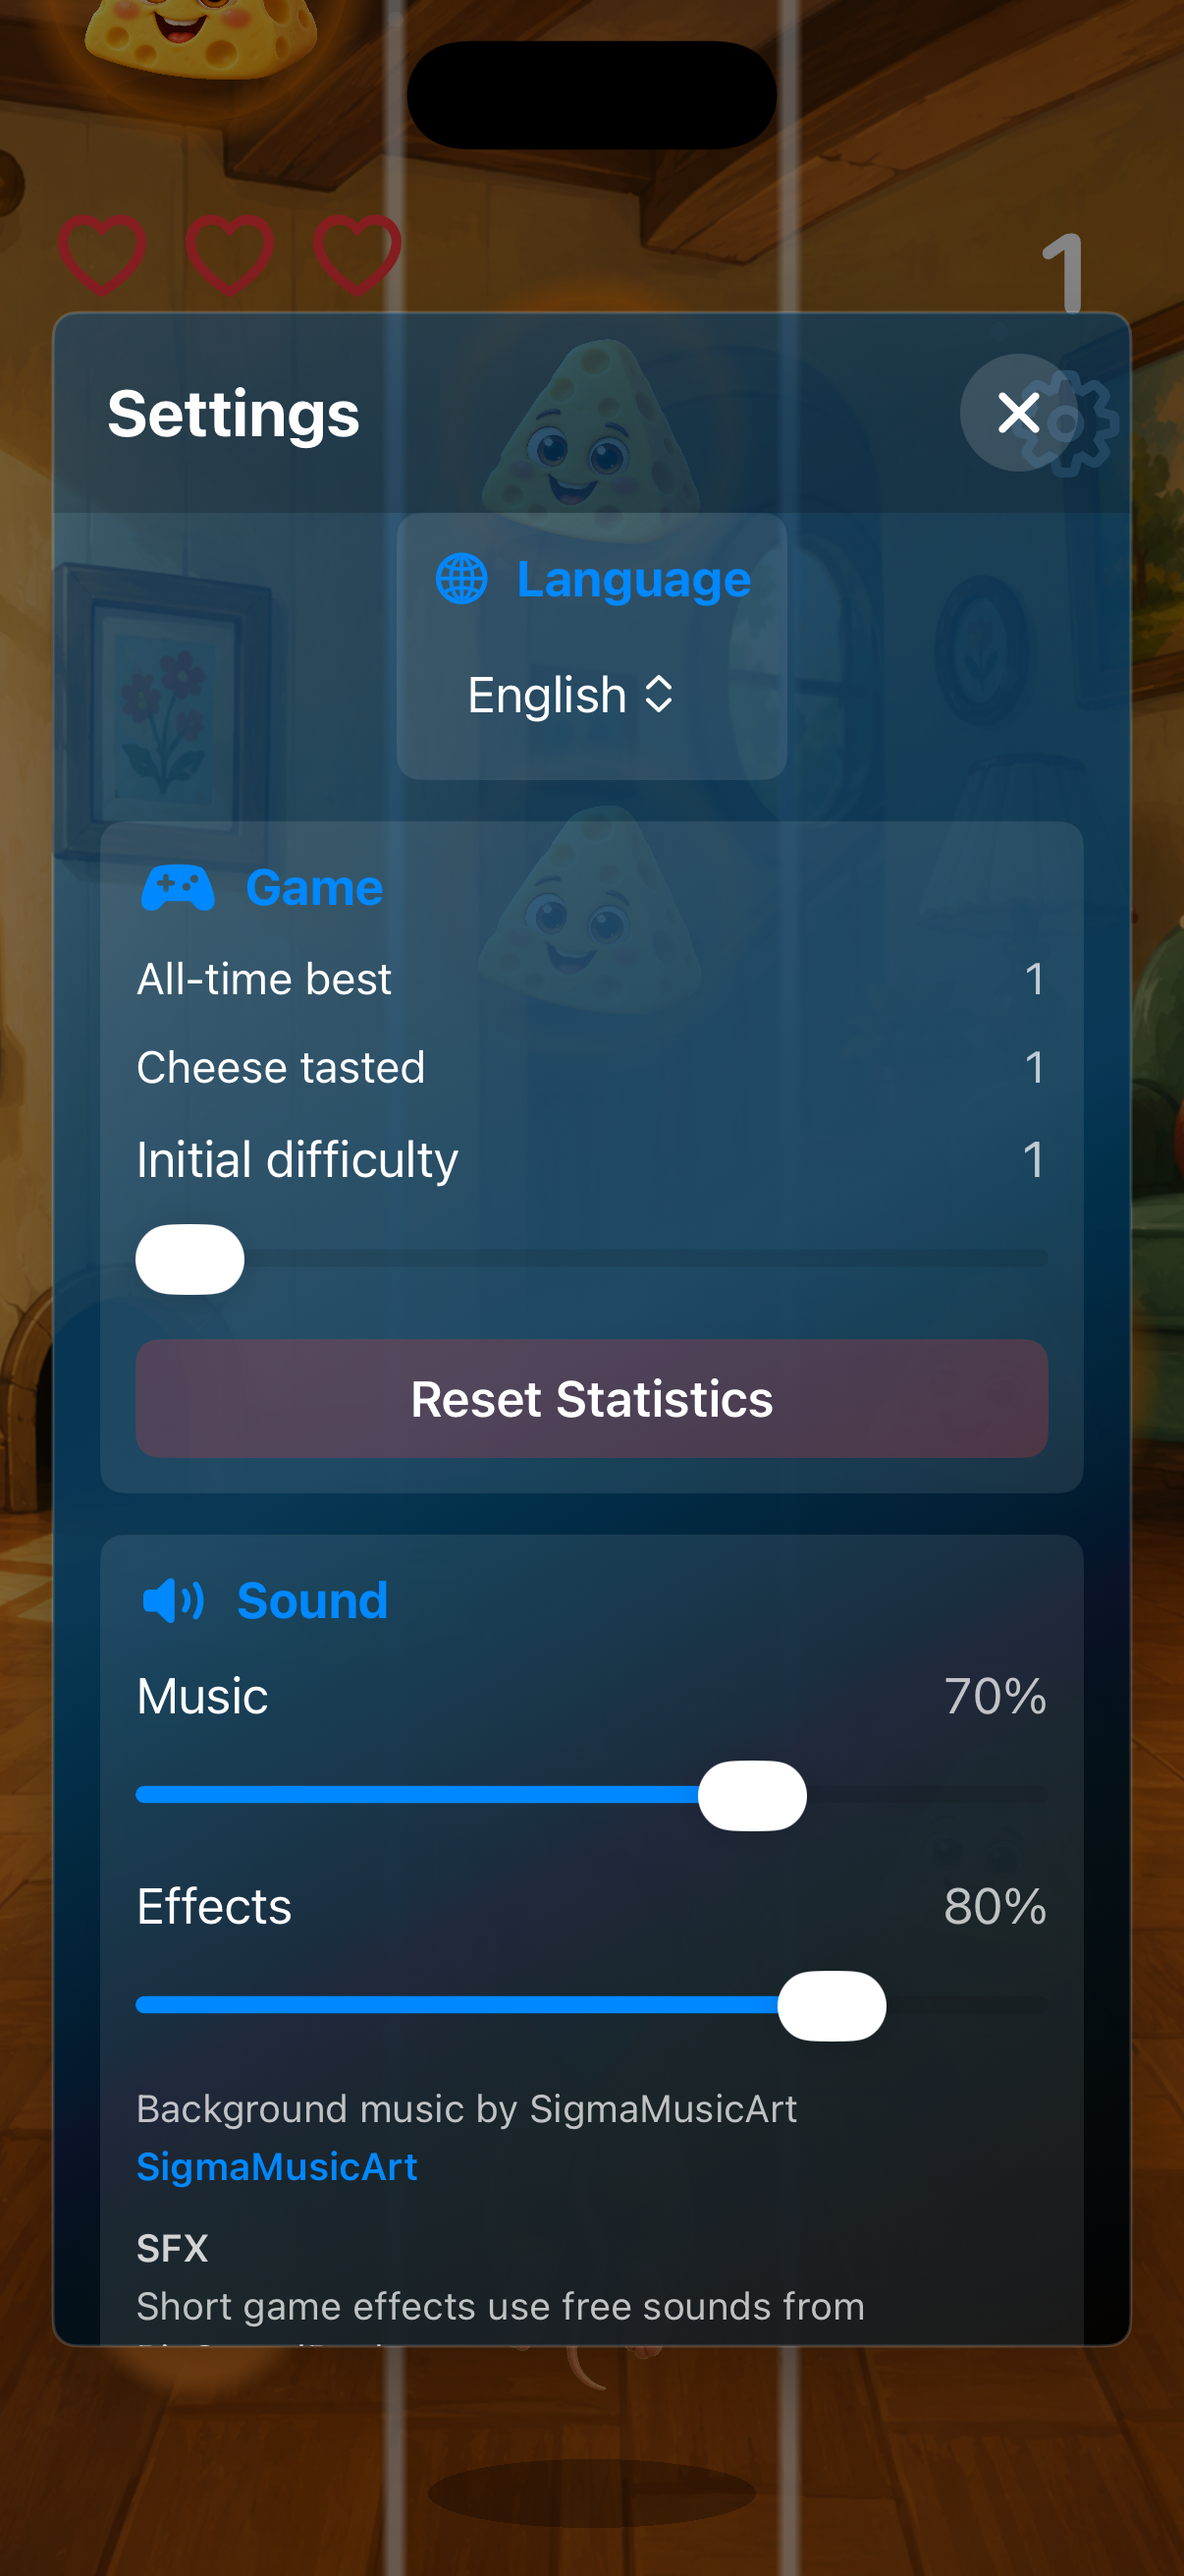
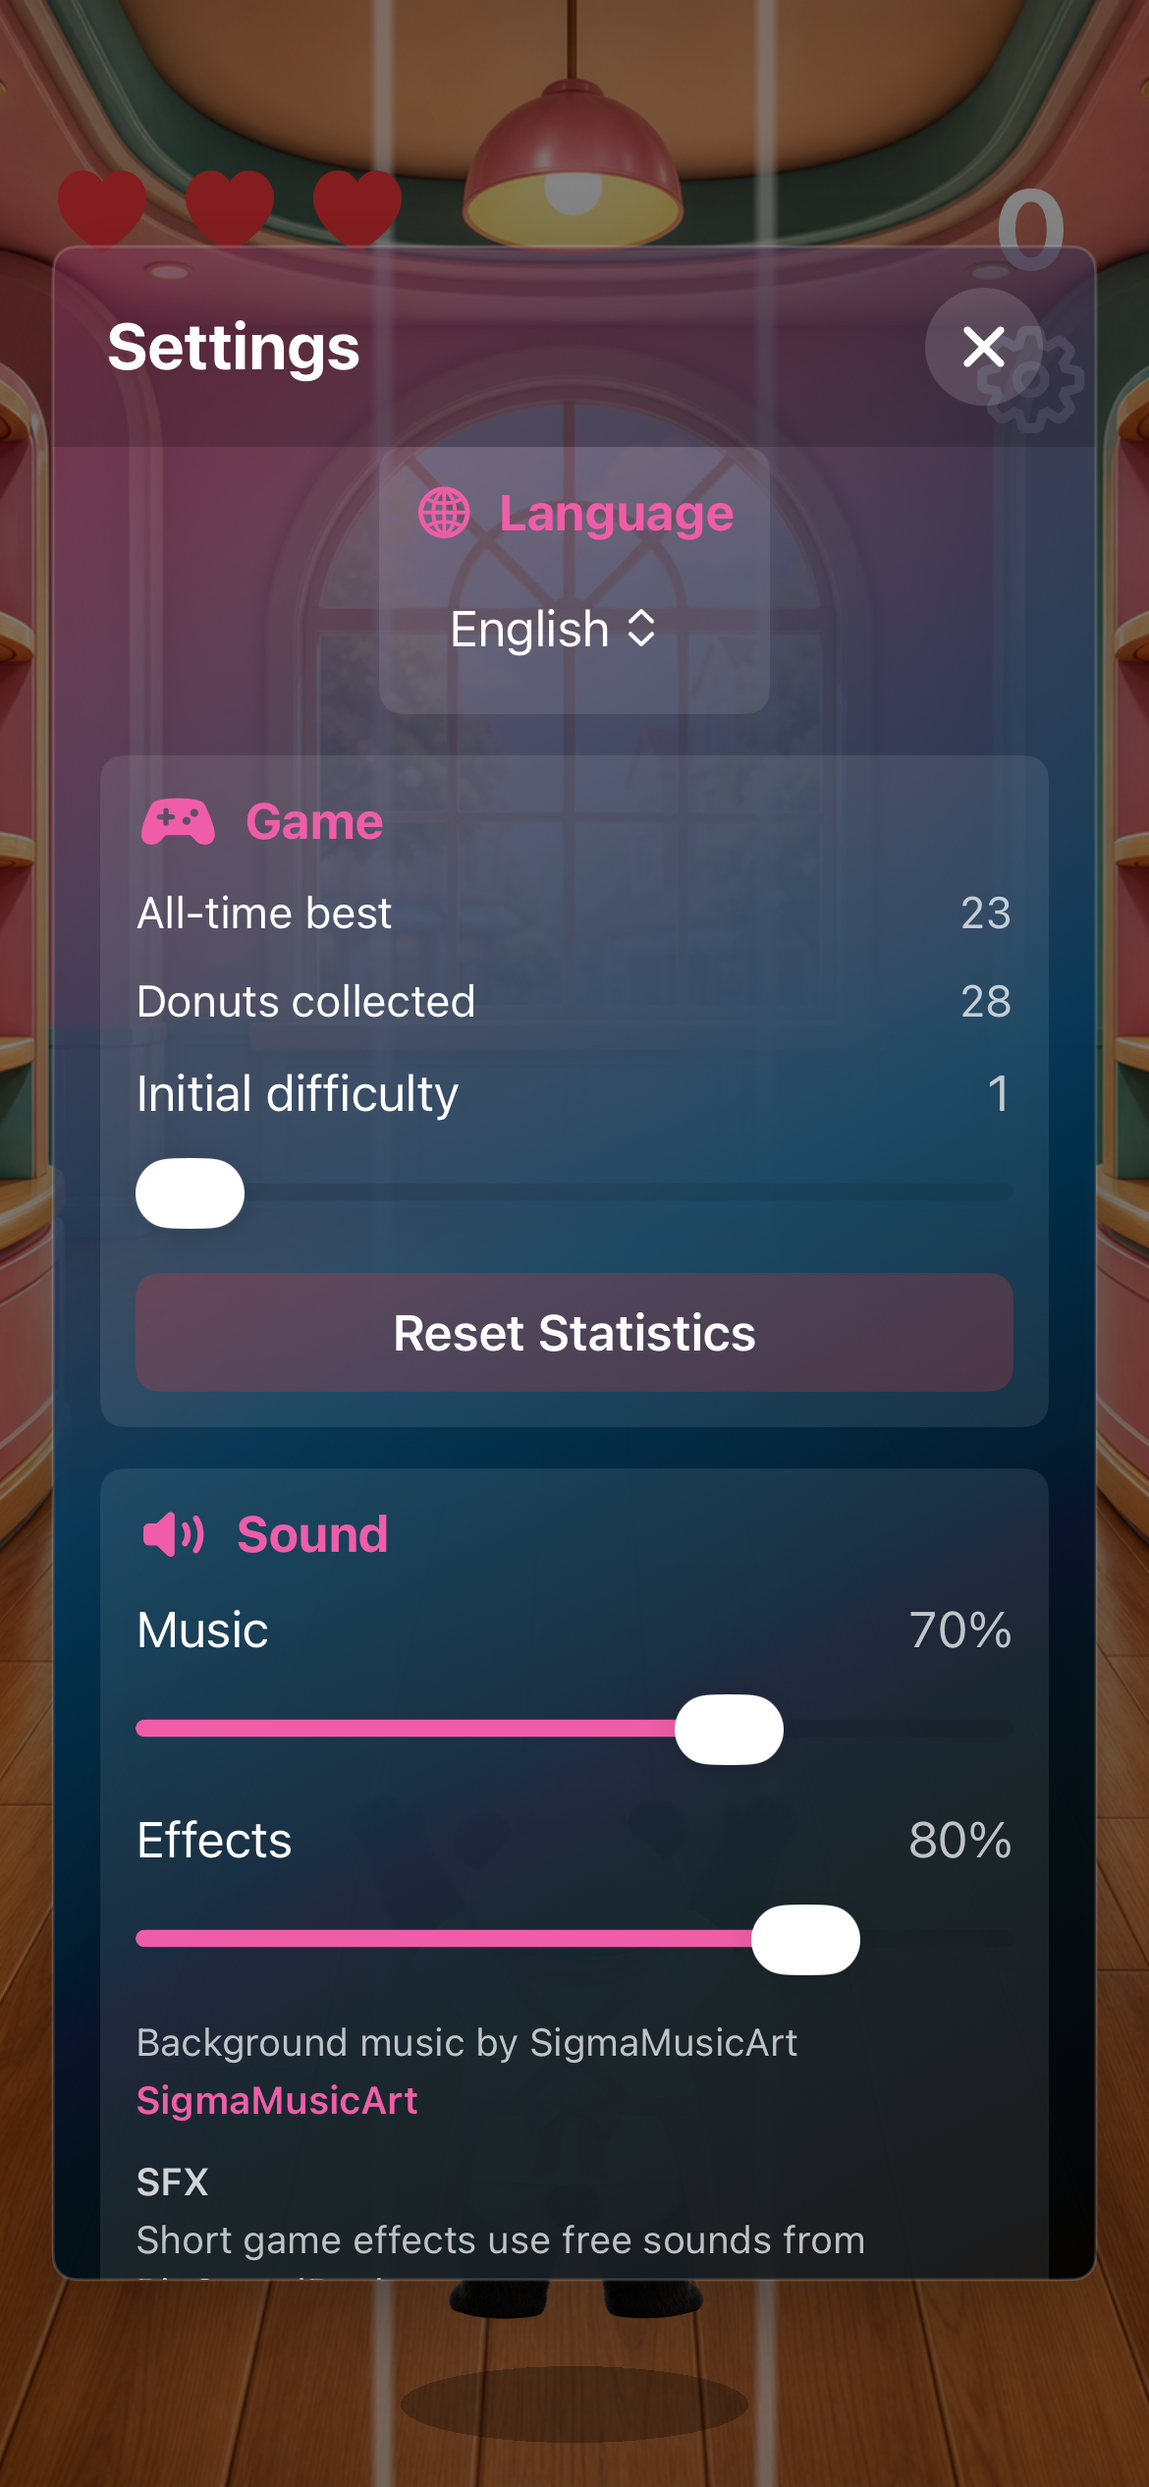
Refresh Simulator screenshots

diff --git a/index.html b/index.html
@@ -96,9 +96,9 @@
           <p>Пончик, смачні пончики, три доріжки та зручні налаштування — саме так Панда Пончик виглядає на iPhone.</p>
         </div>
         <div class="phone-gallery" aria-label="Скриншоти Панда Пончик">
-          <figure class="phone phone-tall"><div class="phone-screen"><img src="images/screenshot-splash.png?v=20260727-2" alt="Заставка Панда Пончик з Пончиком" loading="lazy"></div><figcaption>Знайомство з Пончиком</figcaption></figure>
-          <figure class="phone phone-center"><div class="phone-screen"><img src="images/screenshot-gameplay.png?v=20260727-3" alt="Ігровий раунд із пончиками на трьох доріжках" loading="lazy"></div><figcaption>Збирайте пончики</figcaption></figure>
-          <figure class="phone phone-tall"><div class="phone-screen"><img src="images/screenshot-settings.png?v=20260727-3" alt="" loading="lazy"></div><figcaption>Усе під контролем</figcaption></figure>
+          <figure class="phone phone-tall"><div class="phone-screen"><img src="images/screenshot-splash.png?v=20260727-4" alt="Заставка Панда Пончик з Пончиком" loading="lazy"></div><figcaption>Знайомство з Пончиком</figcaption></figure>
+          <figure class="phone phone-center"><div class="phone-screen"><img src="images/screenshot-gameplay.png?v=20260727-4" alt="Ігровий раунд із пончиками на трьох доріжках" loading="lazy"></div><figcaption>Збирайте пончики</figcaption></figure>
+          <figure class="phone phone-tall"><div class="phone-screen"><img src="images/screenshot-settings.png?v=20260727-4" alt="" loading="lazy"></div><figcaption>Усе під контролем</figcaption></figure>
         </div>
       </div>
     </section>
